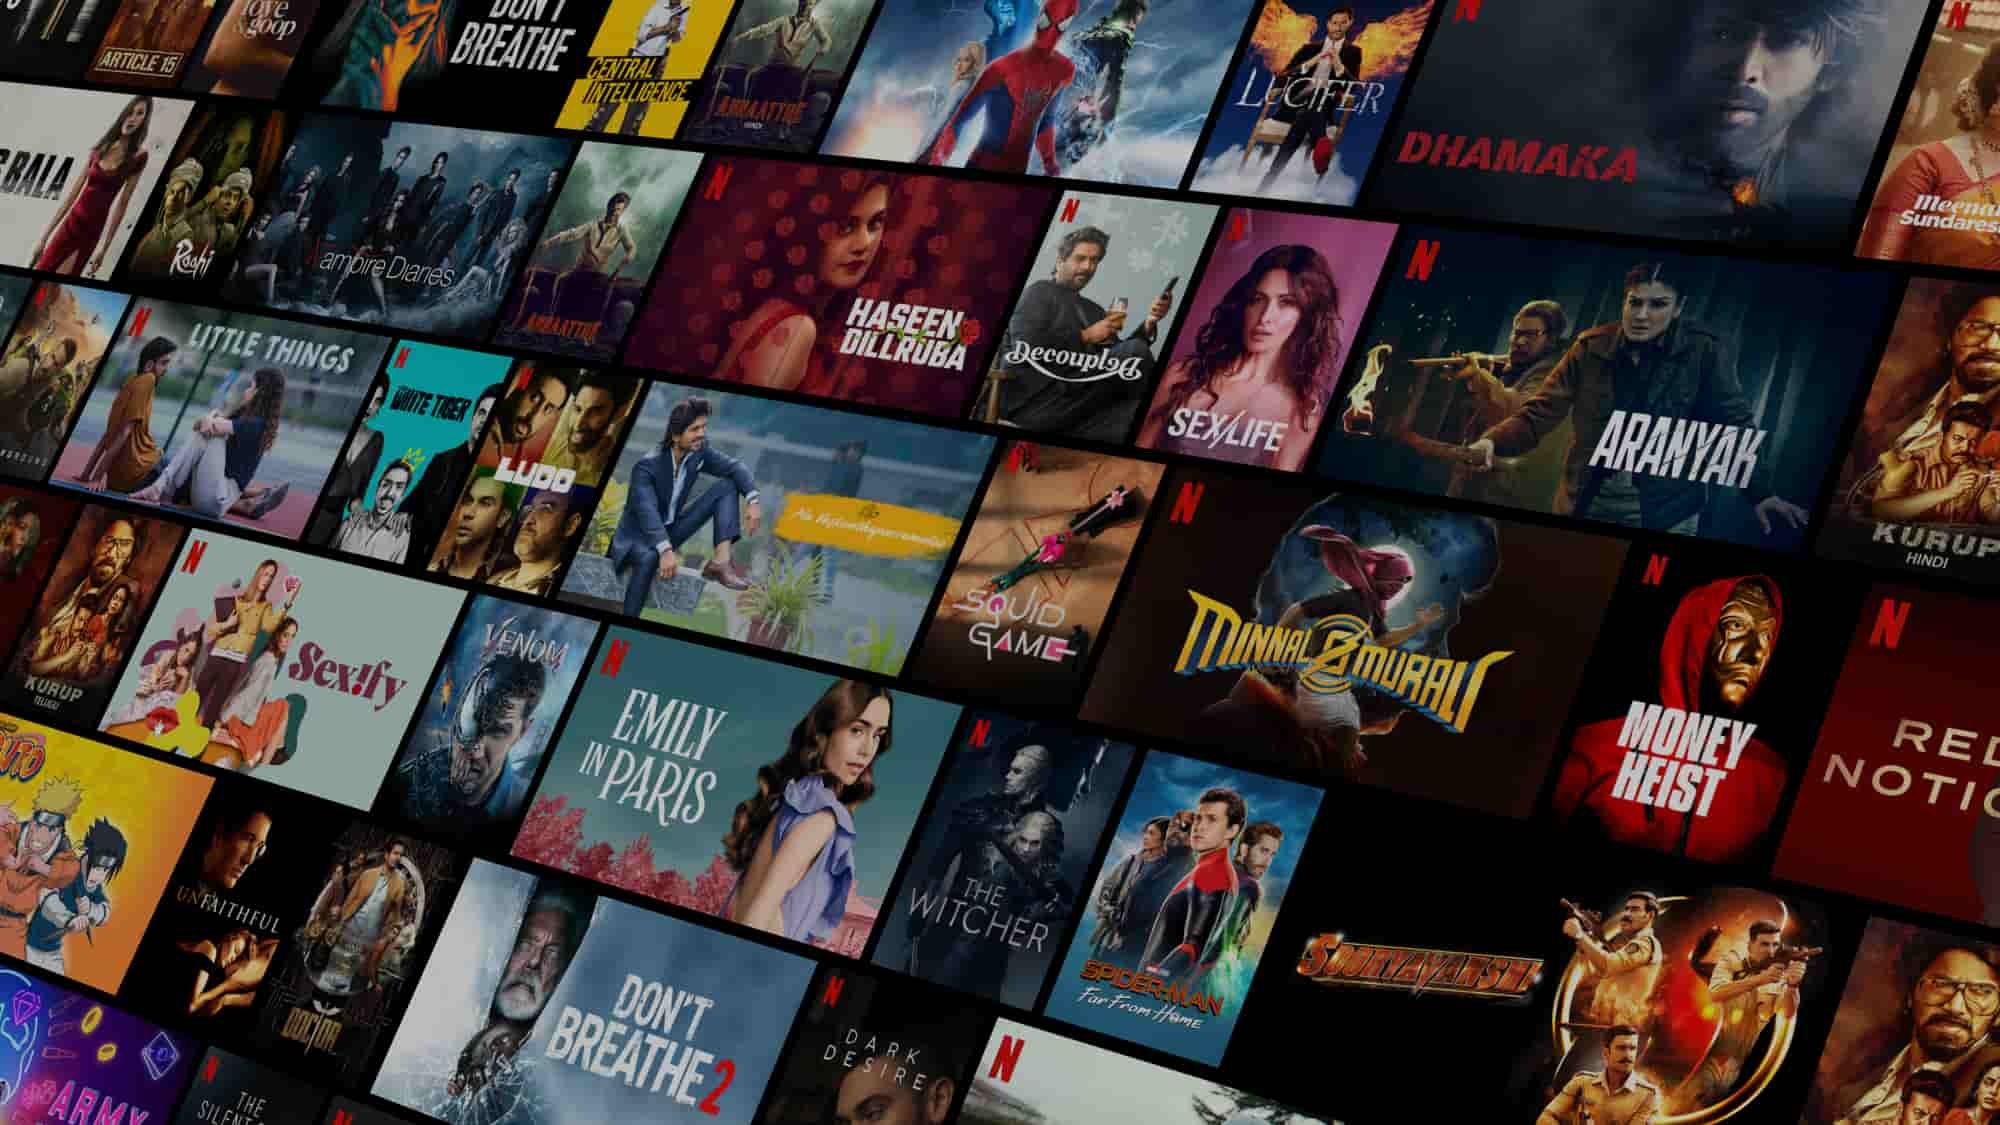
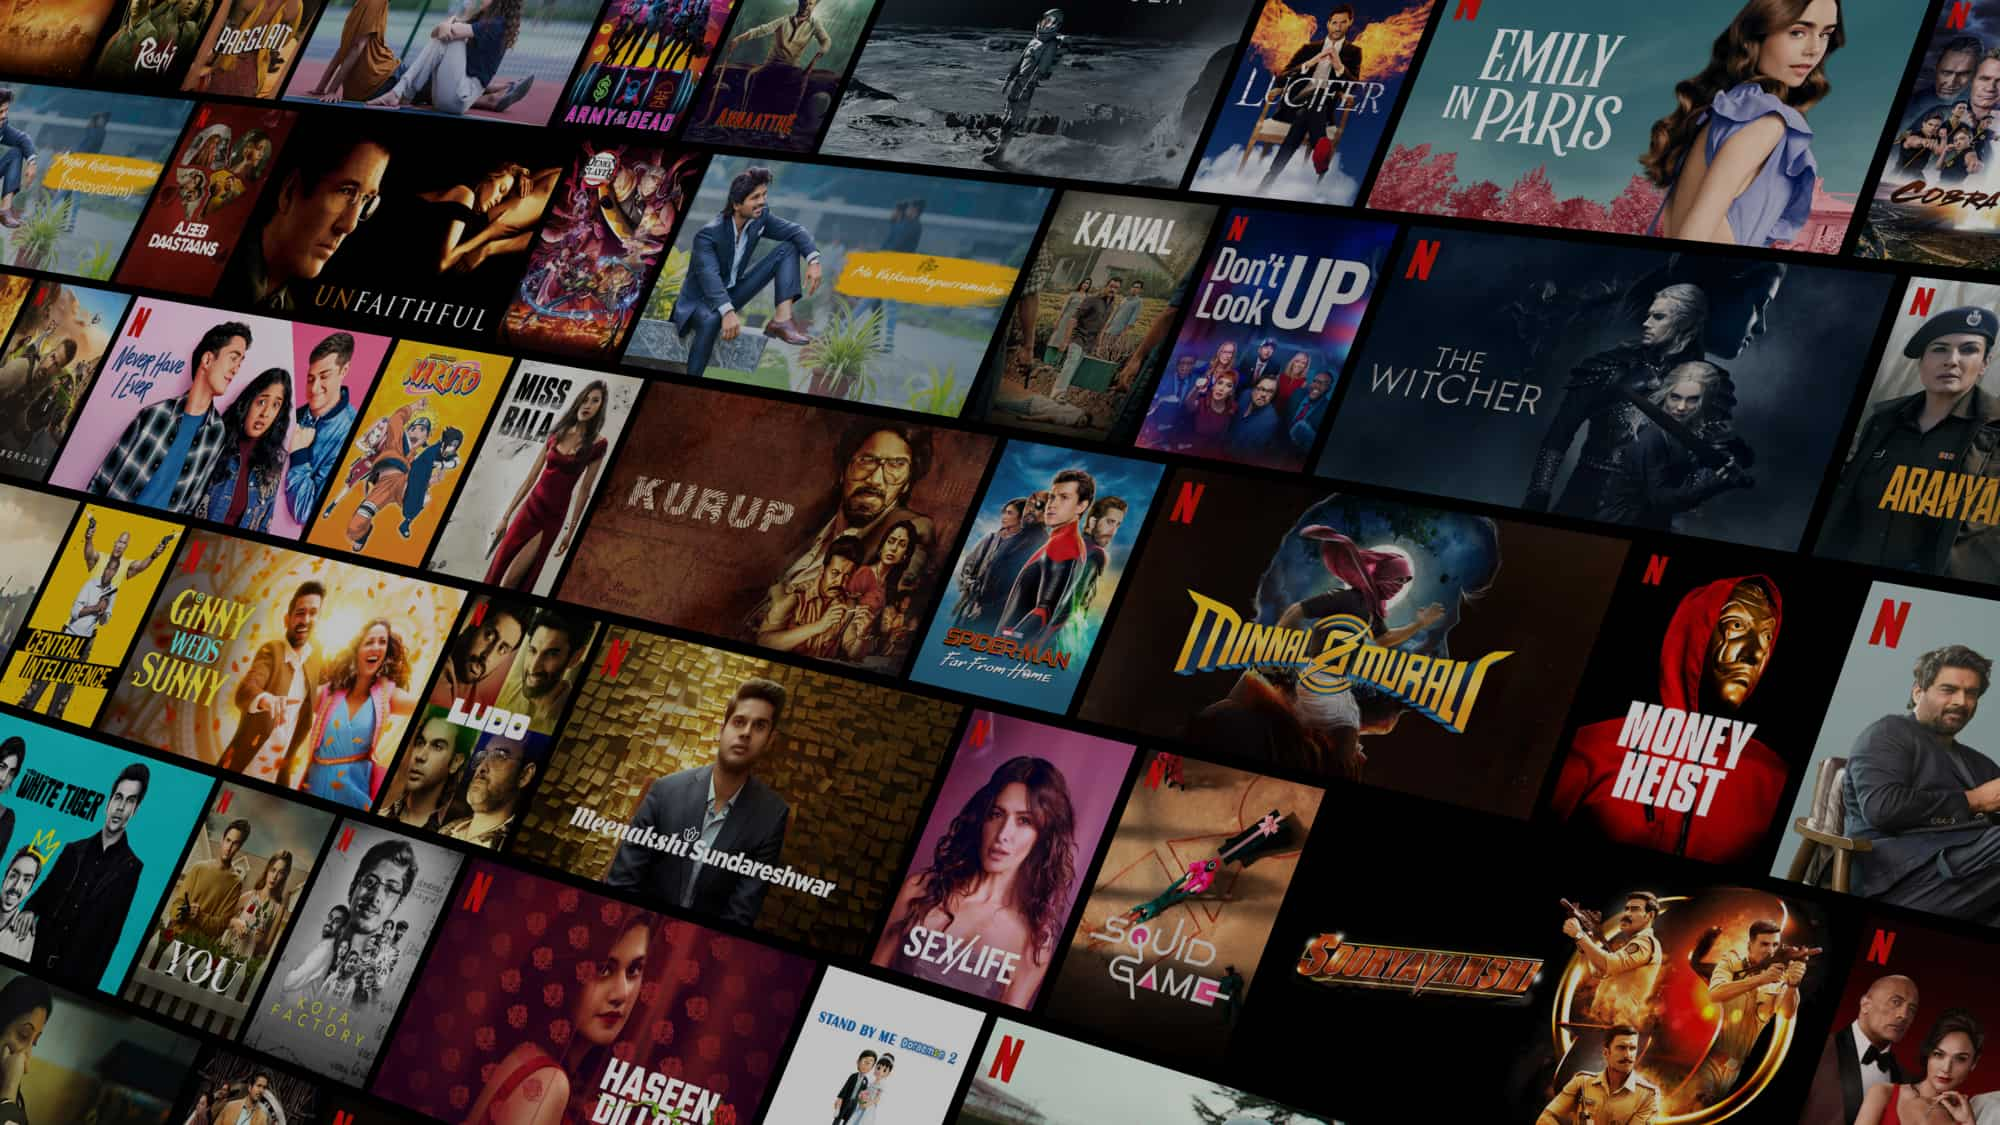
updated background image and its transparency

diff --git a/styles.css b/styles.css
@@ -18,6 +18,20 @@ body {
   background-position: 0 -44px;
   background-color: black;
   overflow-x: hidden;
+  height: 3859px;
+}
+#box {
+  width: 100vw;
+  height: 115vh;
+  background-color: rgba(0, 0, 0, 0.6);
+}
+header,
+footer,
+section,
+aside,
+main {
+  position: relative;
+  bottom: 762px;
 }
 #ntfLogo {
   position: relative;
@@ -209,7 +223,7 @@ h3 {
 }
 aside {
   position: relative;
-  top: 200px;
+  bottom: 550px;
 }
 #faq {
   text-align: center;
@@ -246,7 +260,7 @@ aside > h3 {
 }
 footer {
   position: relative;
-  top: 400px;
+  bottom: 380px;
   left: 200px;
   height: 320px;
 }
